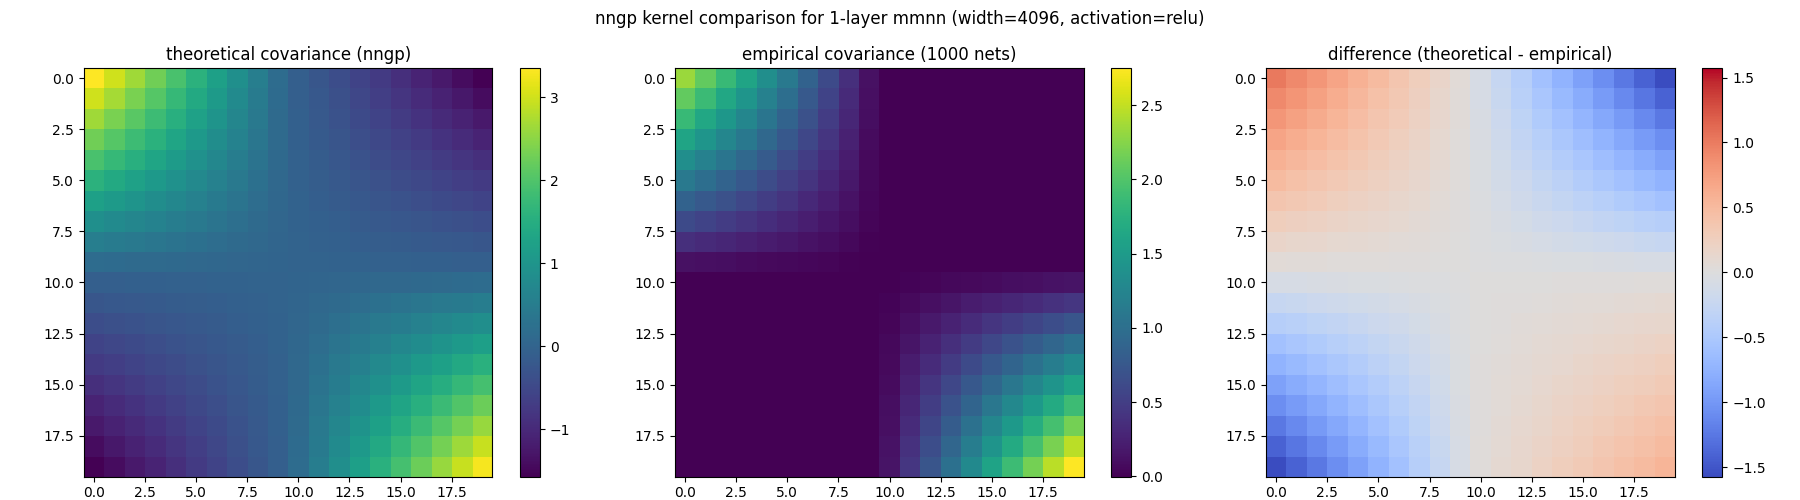
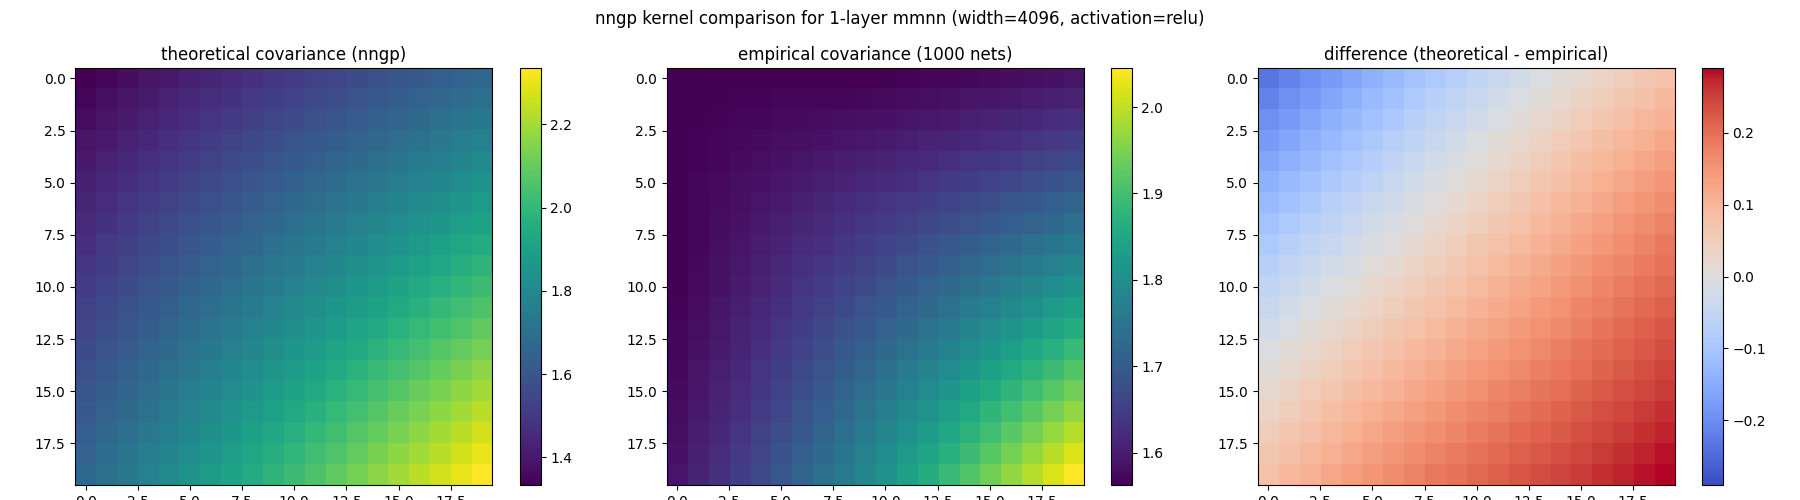
we validate covariance nngp for 1 layer, dependance only in x*x'

diff --git a/experiments/mmnn_plots/1layer_cov.py b/experiments/mmnn_plots/1layer_cov.py
@@ -21,7 +21,7 @@ widths = [net_width] * net_depth # i define the widths for the mmnn layers
 print(f"calculating empirical covariance with {num_nets_empirical} networks...")
 outputs = []
 # i define the input range for our 1d function, smaller for covariance matrix visualization
-x_domain_jax = jnp.linspace(-jnp.pi, jnp.pi, 20).reshape(-1, 1)
+x_domain_jax = jnp.linspace(0, 1, 20).reshape(-1, 1)
 
 key = jax.random.PRNGKey(0)
 
@@ -59,8 +59,8 @@ nngp_kernel = compute_nngp_1layer(
     activation_fn=jax_relu,
     key=subkey,
     sigma_A=1.0,
-    sigma_c=0.0,
-    beta=0.0,
+    sigma_c=1.0,
+    beta=1.0,
     n_samples=10000
 )
 theoretical_cov = np.array(nngp_kernel)

diff --git a/model/mmnn/mmnn_jax.py b/model/mmnn/mmnn_jax.py
@@ -12,6 +12,9 @@ class MMNNJax(nn.Module):
     fix_wb: bool # if true, weights and biases not updated during training
     learning_rate: float = 0.01 # learning rate for training
     activation_fn: Callable = jax.nn.relu # activation function
+    beta: float = 1.0 # beta parameter for the activation function
+    sigma_c: float = 1.0 # sigma_c parameter for the activation function
+    sigma_A: float = 1.0 # sigma_A parameter for the activation function
     
     def setup(self):
         """Initialize the model layers."""
